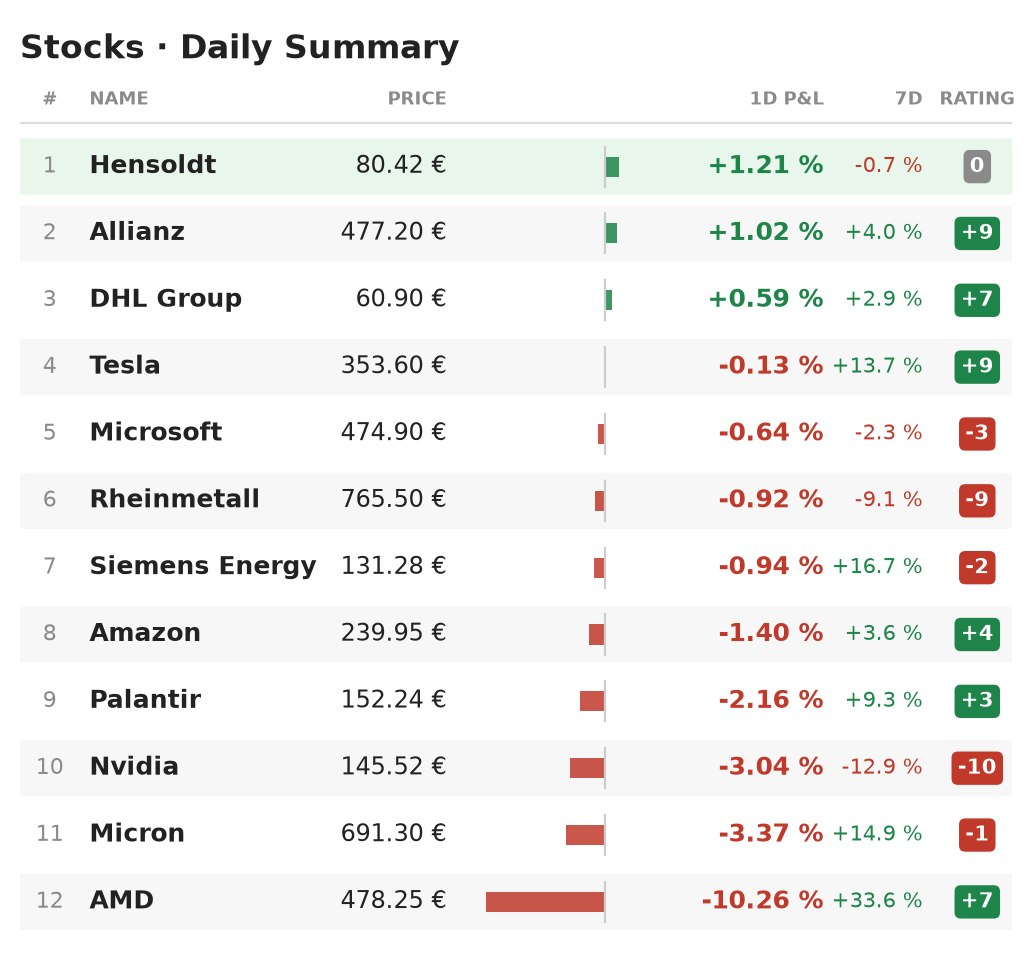
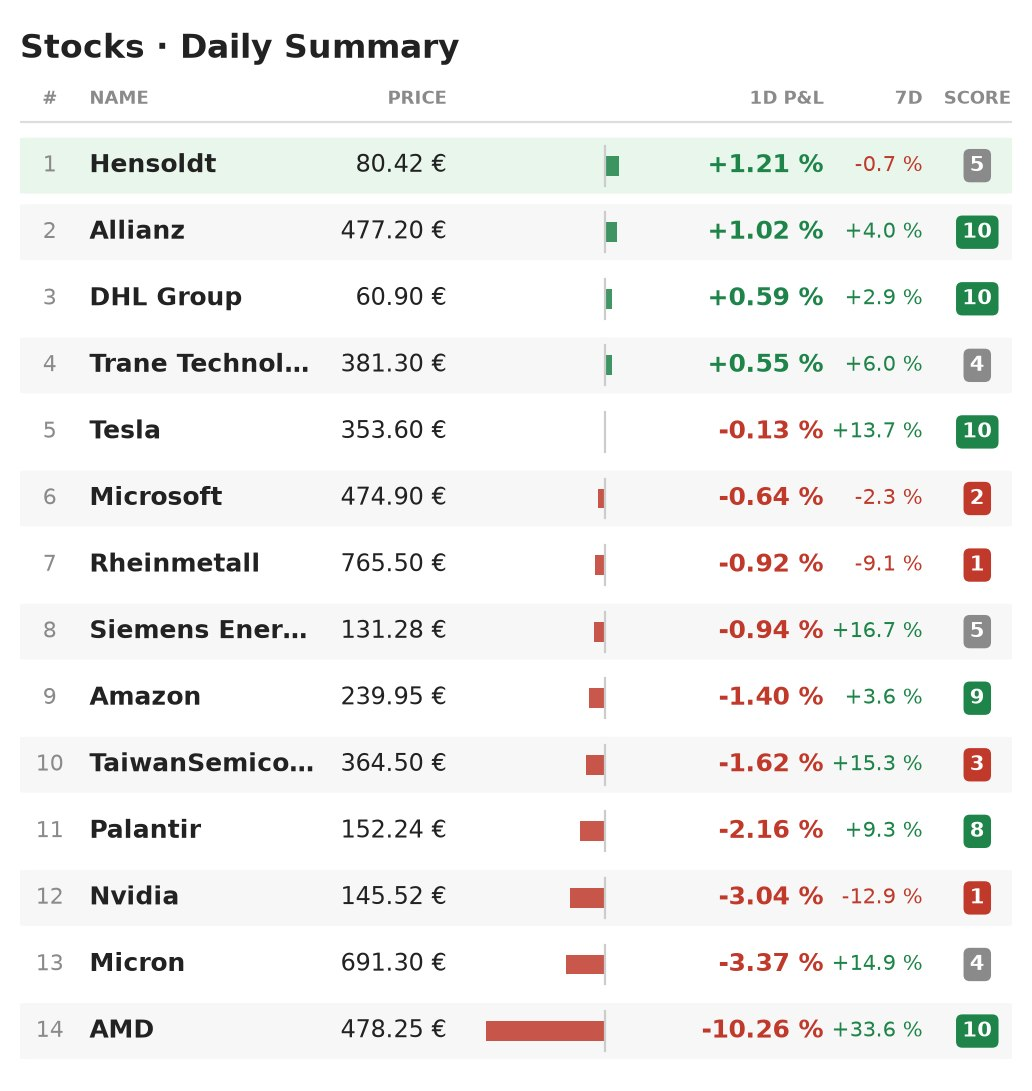
README: new "Why CaSa?" text and daily summary example

diff --git a/readme.md b/readme.md
@@ -21,13 +21,11 @@ CaSa watches your cryptocurrencies and stocks, analyses them with technical indi
 
 ## Why CaSa?
 
-Casa means “home” in Spanish. I’m saving to buy a place of my own, and I know a lot of people my age and younger who are working toward the same goal. With home prices as high as they are, I started thinking more seriously about how to build my savings over time. That’s what got me interested in investing.
+Casa means “house” or “home” in Spanish. I’m saving to buy a place of my own, and I know many people my age and younger who are trying to do the same. With home prices so high, I started asking myself what I could do today to get a little closer to that goal. That question led me to investing.
 
-As I looked into stocks and cryptocurrencies, one thing kept putting me off. I worried I’d miss a sudden price move, and the swings in crypto made the risk of losing money feel especially real. I wanted a way to keep up with the markets without feeling like I had to check them all day.
+As I started learning about stocks and cryptocurrencies, I kept wondering what might happen while I was away from the screen. Crypto prices could change quickly, and I worried about how much I could lose. I wanted a way to follow the markets without checking prices all day. The apps I tried could tell me when a price reached a certain level, but I wanted more control over when I got an alert. That usually meant paying for a subscription. So I built the tool I wanted to use and called it CaSa, after the goal that got me started.
 
-The apps I tried could tell me when a price crossed a threshold, but I wanted more control over which changes would trigger an alert. In the apps I found, that flexibility usually meant paying for a subscription. So I built the tool I wanted to use and named it CaSa after the goal that got me started.
-
-CaSa is free and open source on GitHub. The core features are already in place, and the [roadmap](#roadmap) outlines what I’d like to build next. If you’ve run into the same frustrations, I’d love to hear what would make CaSa useful to you.
+CaSa is free and open source on GitHub. It uses very little computing power, so it can run on a low-cost computer without a cloud server or paid API subscriptions. It explains what you’re seeing in simple words, even if you’re new to investing. I started CaSa with a home of my own in mind. But now I hope it helps others take their first steps in investing, whatever they’re saving for. If you try it, I’d love to hear what would make it more useful to you. You can see what I’m planning next in the [roadmap](https://github.com/TheRealDeluxee/CryptoStockManager#roadmap).
 
 ![CaSa alert in Telegram on iPhone and Apple Watch](docs/telegram_phone_watch.png)
 
